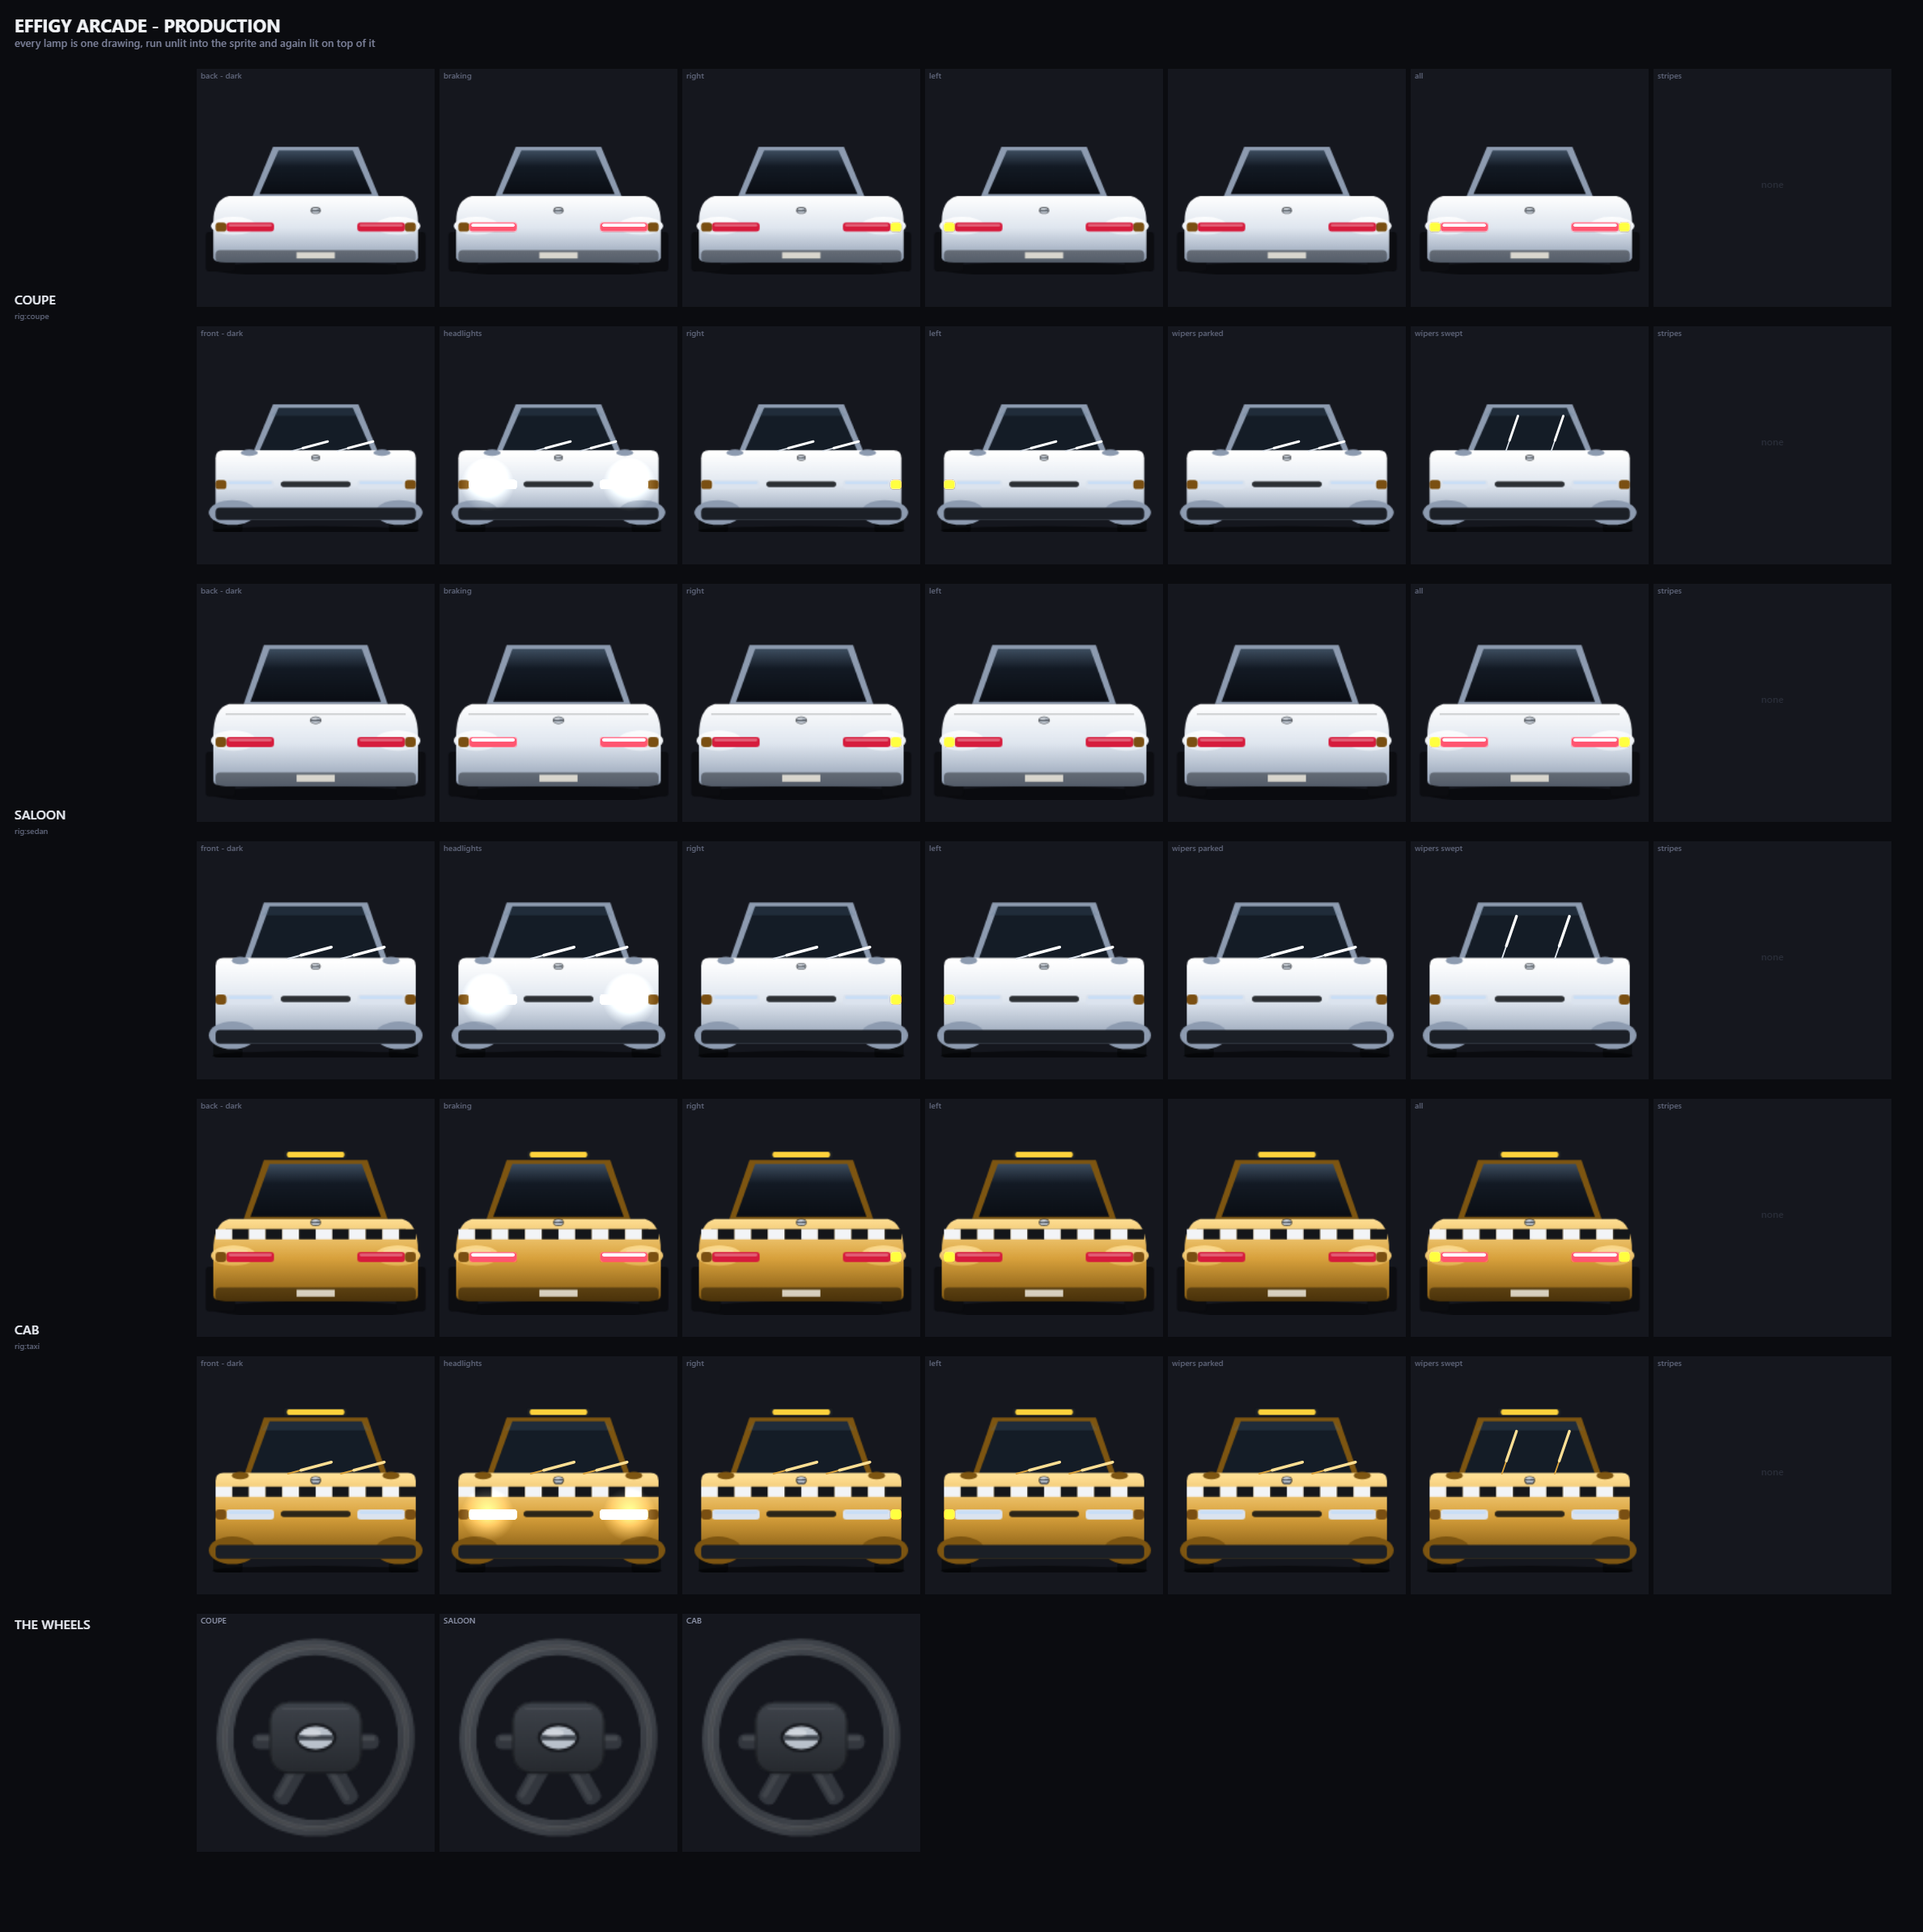
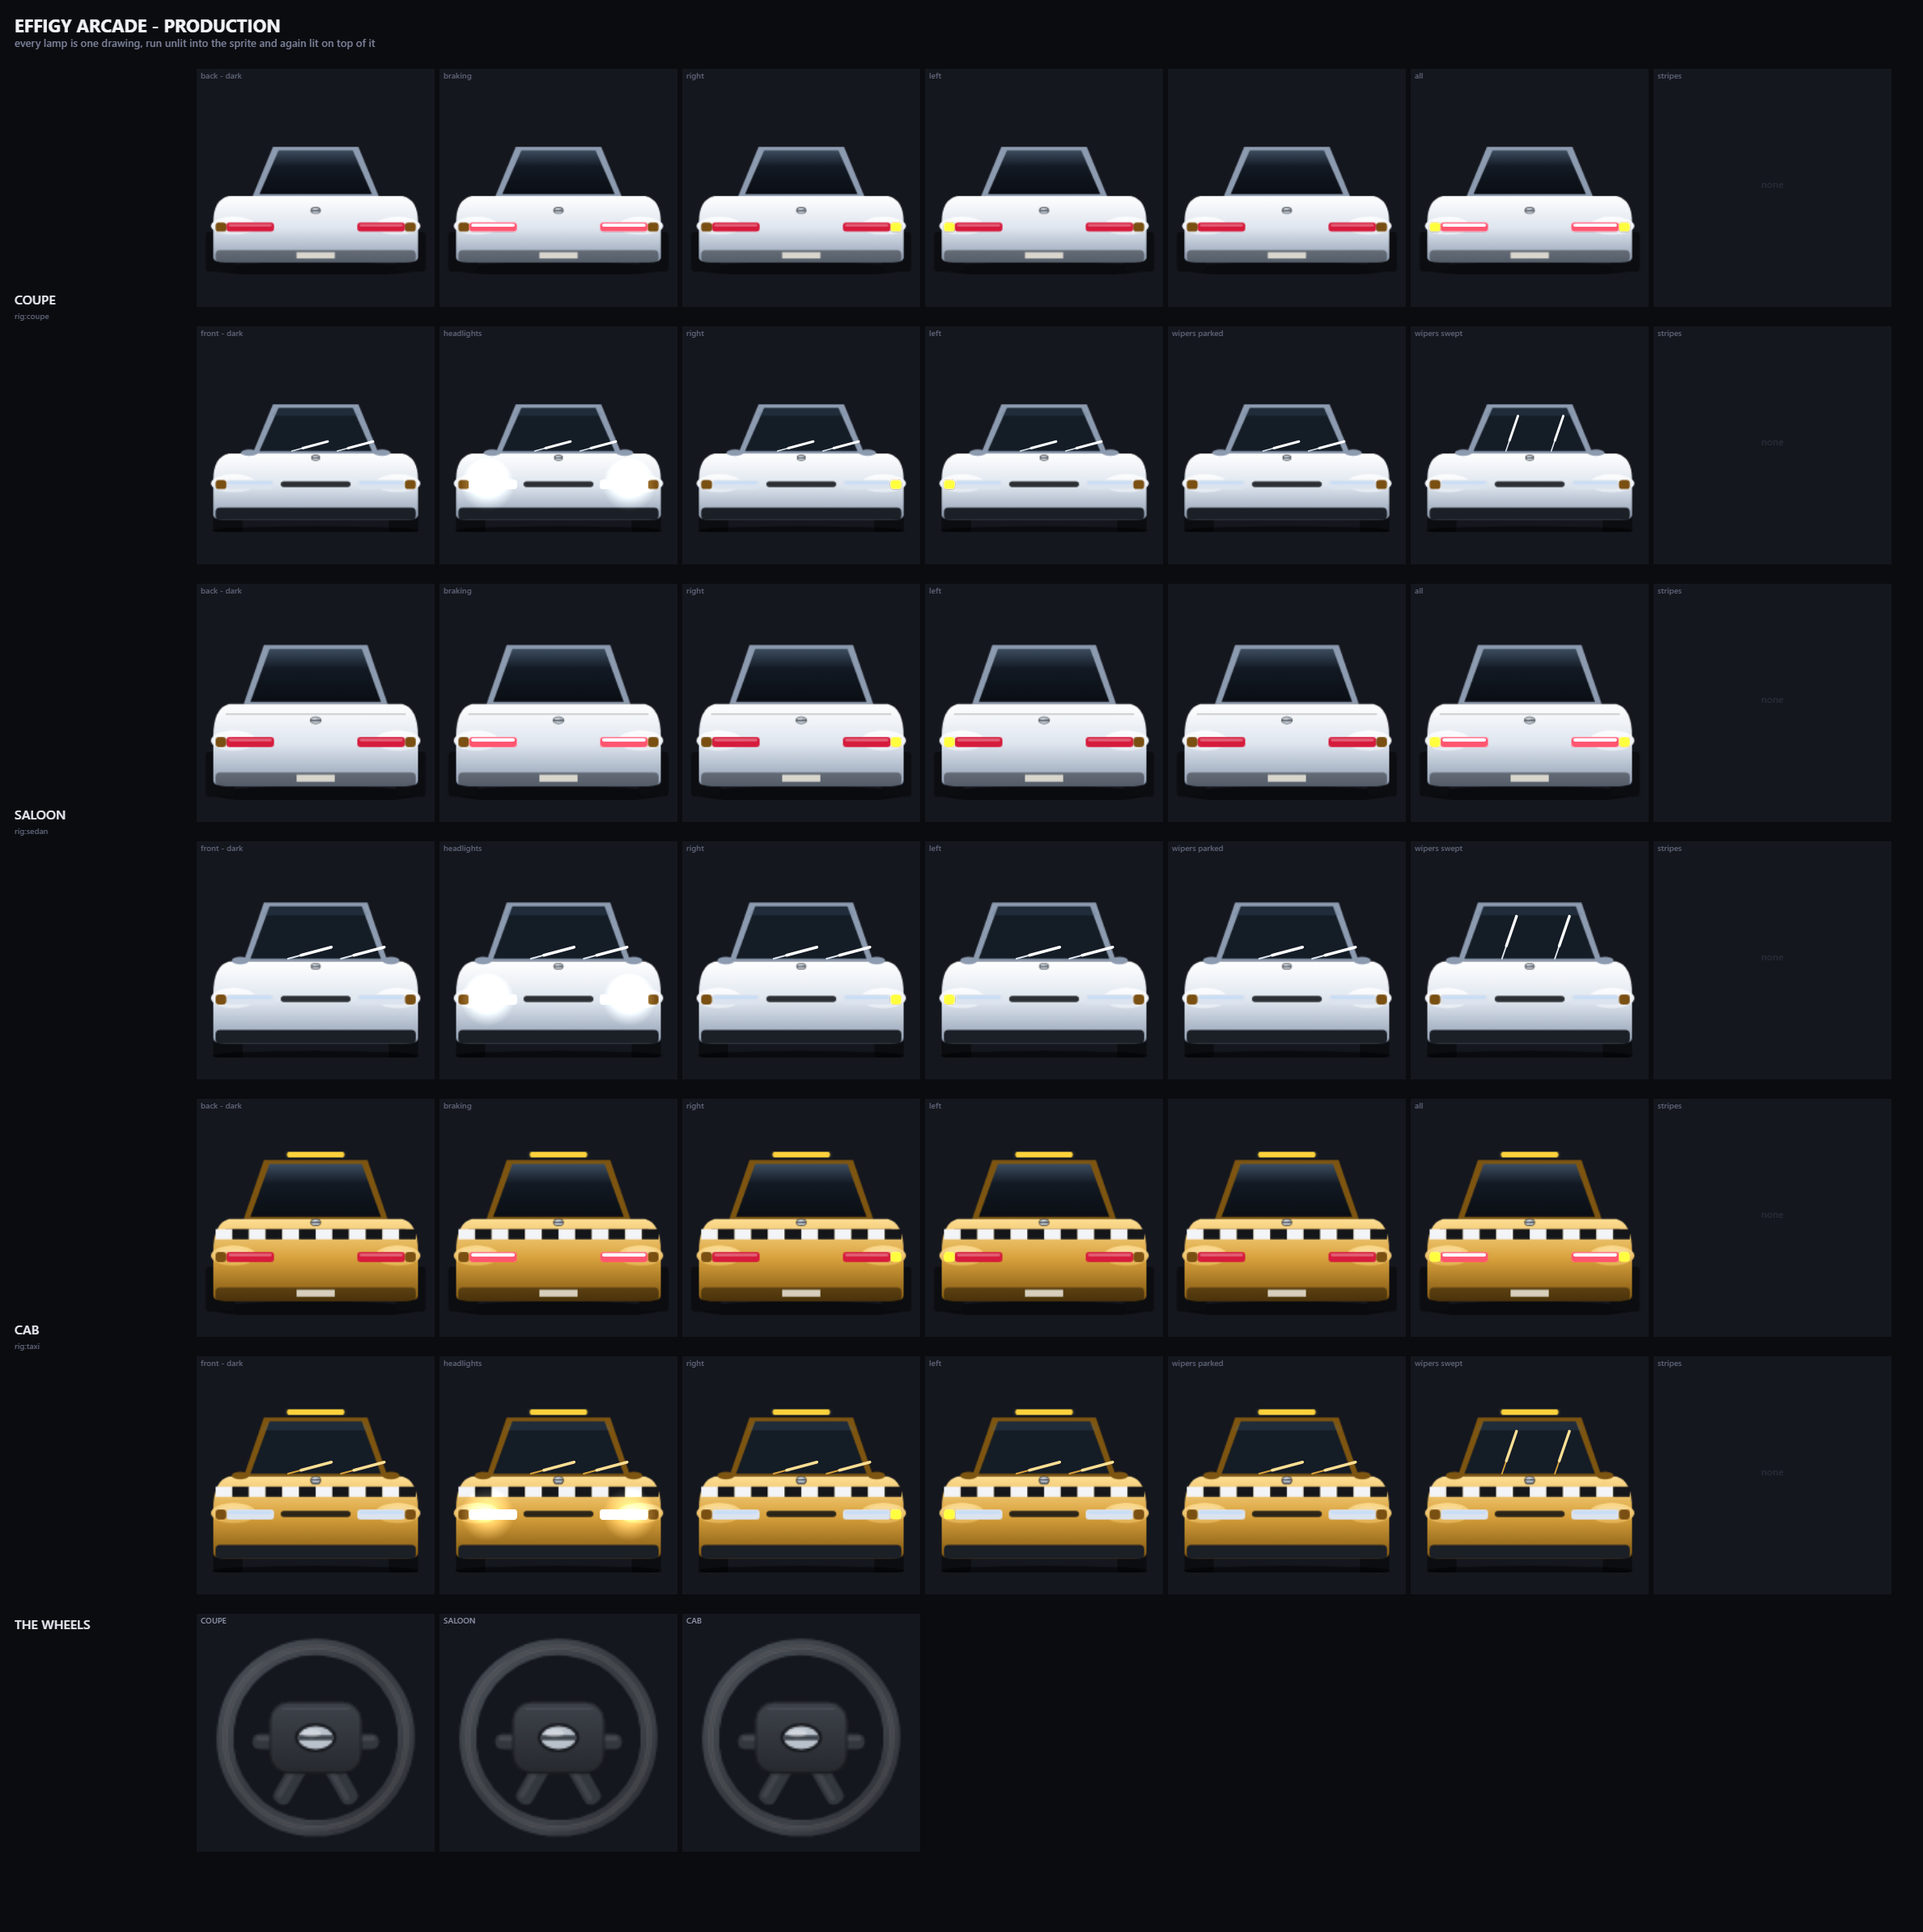
fix: a car's front has the same silhouette as its back (RLG-053, v0.9.46)
Owner, once the two ends were hung from the same line: make the front match the
curvature of the back, look at the top rounded edges.

They did not match, and the comment above the code claimed they did. The rear
body is a path with a waist in it - the deck line runs from 0.115 to 0.885, the
shoulders curve outward to 0.955 and 0.045, and the sill tucks back in at the
bottom. The front was a rounded rectangle from 0.055 to 0.945 with a 0.035
corner, under a comment reading "0.055 to 0.945, exactly as the back".

It WAS exactly as the back at the two edges it named, and a different shape
everywhere between them. That is the most durable kind of wrong comment: true of
the numbers it mentions.

The front draws the rear's own path now, with `pDeck` where the rear uses
`deckY`, and its arch blisters are the rear's ellipses at the rear's own 0.135
and 0.865 rather than flat ovals at 0.13 and 0.87.

The vehicles with their own branches - the pickup, the van and the lorry - were
checked pair by pair on the class sheets and are consistent. A bed and a trailer
are genuinely different objects from the cabs in front of them, and that is the
vehicle rather than the drawing.

Verified: smoke 6/6, lamp-test clean, and all six class sheets regenerated.

diff --git a/road.js b/road.js
@@ -80,7 +80,7 @@ const PLAYER_Z = CAM_H*CAM_D;
    worker serves scripts network-first with a cache fallback, so a device can end
    up with a fresh shell beside a cached engine, and the tag says MIXED when it
    does. Bumped with `Arcade.version`, in the same commit, every time. */
-window.ROAD_BUILD = '0.9.44';
+window.ROAD_BUILD = '0.9.46';
 
 const LANE_X = [-0.75,-0.25,0.25,0.75];
 /* ---- ONE LANE, and the unit every lateral move is written in ---------------
@@ -2202,13 +2202,39 @@ function paintRigFront(kind, o){
     g.lineTo(w*(0.5-pCab/2+0.02), pRoof+h*0.070);
     g.closePath(); g.fill();
 
-    /* the body: 0.055 to 0.945, exactly as the back */
+    /* ---- THE SAME SILHOUETTE AS THE BACK ------------------------------
+       Owner, 2026-08-29: the front must match the curvature of the back - look
+       at the top rounded edges. It did not. The back is a PATH: the bonnet
+       line runs from 0.115 to 0.885 and the shoulders curve outward to 0.955
+       before tucking in again at the sill, so the car has a waist. The front
+       was a rounded rectangle from 0.055 to 0.945 with a 0.035 corner, which
+       is a slab with the corners taken off.
+
+       The comment above it claimed "exactly as the back" and had claimed it
+       since the front painters were written. It was measuring the same two
+       EDGES and drawing a different shape between them.
+
+       This is the rear's own path, with `pDeck` where the rear uses `deckY`.
+       ---------------------------------------------------------------- */
+    const pHip = pDeck + (bot-pDeck)*0.40;
     g.fillStyle = grad(pDeck, bot);
-    rr(g, w*0.055, pDeck-h*0.02, w*0.89, bot-pDeck+h*0.02, w*0.035); g.fill();
-    /* arch blisters, the same 0.13 / 0.87 the rear uses */
-    for(const ax of [0.13, 0.87]){
-      g.fillStyle = P.lo;
-      g.beginPath(); g.ellipse(w*ax, bot-h*0.045, w*0.105, h*0.075, 0, 0, 6.2832); g.fill();
+    g.beginPath();
+    g.moveTo(w*0.115, pDeck);
+    g.lineTo(w*0.885, pDeck);
+    g.quadraticCurveTo(w*0.955, pDeck+h*0.02, w*0.955, pHip);
+    g.lineTo(w*0.955, bot-h*0.03);
+    g.quadraticCurveTo(w*0.955, bot, w*0.90, bot);
+    g.lineTo(w*0.10, bot);
+    g.quadraticCurveTo(w*0.045, bot, w*0.045, bot-h*0.03);
+    g.lineTo(w*0.045, pHip);
+    g.quadraticCurveTo(w*0.045, pDeck+h*0.02, w*0.115, pDeck);
+    g.closePath(); g.fill();
+    /* arch blisters, the same 0.135 / 0.865 and the same shape the rear uses */
+    for(const ax of [0.135, 0.865]){
+      g.fillStyle = grad(pHip-h*0.04, bot);
+      g.beginPath(); g.ellipse(w*ax, pHip+h*0.02, w*0.10, h*0.055, 0, 0, 6.2832); g.fill();
+      g.fillStyle = 'rgba(255,255,255,.18)';
+      g.beginPath(); g.ellipse(w*ax, pHip-h*0.004, w*0.065, h*0.014, 0, 0, 6.2832); g.fill();
     }
     /* the stripes go AFTER the body — drawn before it they were painted over
        and only showed on the rear, where the order happens to be the other way */

diff --git a/arcade.js b/arcade.js
@@ -44,7 +44,7 @@ var A = window.Arcade = window.Arcade || {};
    over would have said "nearly done" about work that has barely started. The
    version tracks THIS product. The maturity of the engine underneath it is
    recorded in the git history, which came across whole. */
-A.version = '0.9.45';
+A.version = '0.9.46';
 
 /* ---- WHICH BUILD AM I PLAYING? -------------------------------------------
    Asked for by the owner, 2026-08-29, and it is a testing tool rather than

diff --git a/docs/fragments/RLG-053.md b/docs/fragments/RLG-053.md
@@ -463,3 +463,22 @@ Keyed by BODY rather than by marque. The marque of every production and utility 
 cannot separate them from the traffic that shares it, and `optBody` is what `API.wheelOf` sets. The
 patrol cars are deliberately not in the list: they are pursuit vehicles, and the owner named
 production and utility.
+- **RULED 2026-08-29T11:52:09-04:00** — Owner, 2026-08-29, once the two ends were finally hung from the same line: "make sure that the front
+matches the same curvature as the back. Look at the top rounded edges."
+
+They did not match, and the comment above the code claimed they did. The rear body is a PATH with a
+waist in it: the deck line runs from 0.115 to 0.885, the shoulders curve outward to 0.955 and 0.045,
+and the sill tucks back in at the bottom. The front was a rounded rectangle from 0.055 to 0.945 with
+a 0.035 corner - a slab with the corners taken off - under a comment reading "0.055 to 0.945, exactly
+as the back".
+
+It was exactly as the back at the two EDGES and a different shape everywhere between them. That is
+the most durable kind of wrong comment: it was true of the numbers it named.
+
+The front now draws the rear's own path with `pDeck` where the rear uses `deckY`, and its arch
+blisters are the rear's ellipses at the rear's 0.135 and 0.865 rather than flat ovals at 0.13 and
+0.87. Both ends of a car are one silhouette.
+
+The vehicles with their own branches - the pickup, the van and the lorry - were checked pair by pair
+on the class sheets and are consistent: a pickup's bed and a lorry's trailer are genuinely different
+objects from their cabs, and that difference is the vehicle rather than the drawing.

diff --git a/docs/core/changelog.md b/docs/core/changelog.md
@@ -14,6 +14,14 @@ barely started, and 0.9.x would have claimed otherwise.
 
 ---
 
+<a id="v0-9-46"></a>
+## [0.9.46] - 2026-08-29
+- Fixed: **a car's front now has the same silhouette as its back.** The rear body is a path with a
+  waist - shoulders curving out to 0.955 and a sill tucking back in - and the front was a rounded
+  rectangle under a comment claiming it was "exactly as the back". It was exactly as the back at the
+  two edges it named and a different shape everywhere between them. The front draws the rear's own
+  path now, with the rear's arch blisters ([RLG-053](../fragments/RLG-053.md)).
+
 <a id="v0-9-45"></a>
 ## [0.9.45] - 2026-08-29
 - Changed: **the garage's two views hang from the roof line.** A shared floor line is the physical
